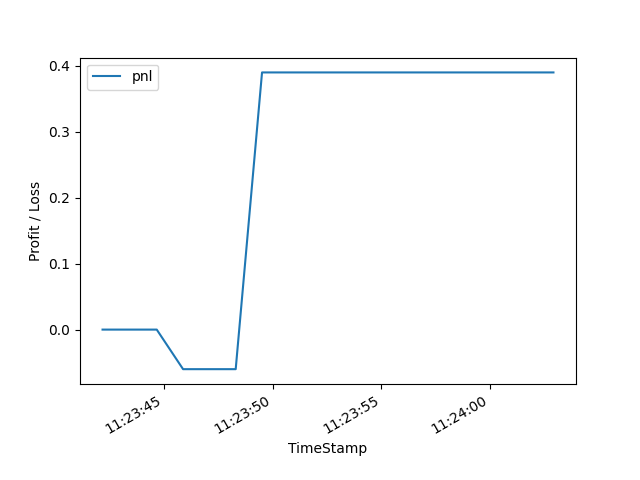
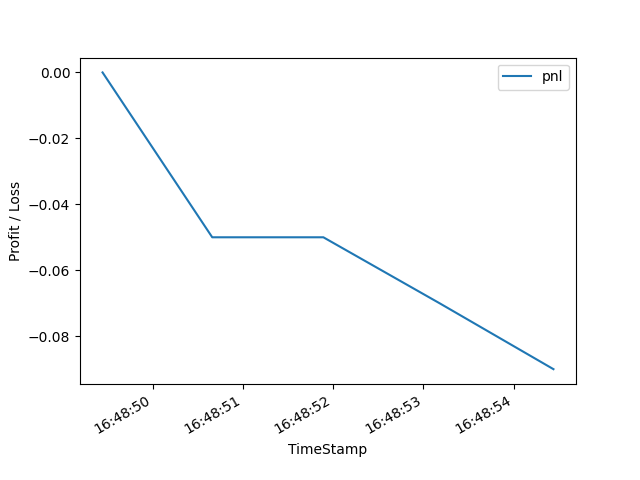
Misc

diff --git a/prototrade/src/position_management/position_manager.py b/prototrade/src/position_management/position_manager.py
@@ -5,7 +5,7 @@ import logging
 import heapq
 import traceback
 from models.dual_heap import DualHeap
-from exceptions.exceptions import InvalidOrderTypeException, InvalidOrderSideException, UnknownOrderIdException, MissingParameterException, ExtraneousParameterException, UnavailableSymbolException
+from exceptions.exceptions import InvalidOrderTypeException, InvalidOrderSideException, UnknownOrderIdException, MissingParameterException, ExtraneousParameterException, UnavailableSymbolException, InvalidPriceException, InvalidVolumeException
 from models.order import Order
 import math
 from threading import Thread
@@ -22,12 +22,13 @@ from models.error_event import ErrorEvent
 
 SYMBOL_REQUEST_TIMEOUT = 5
 class PositionManager:
-    def __init__(self, order_books_dict, order_books_dict_semaphore, stop_event, error_queue, exchange_num):
+    def __init__(self, order_books_dict, order_books_dict_semaphore, stop_event, error_queue, exchange_num, subscribed_symbols):
         self._order_books_dict = order_books_dict
         self._order_books_dict_semaphore = order_books_dict_semaphore
         self._stop_event = stop_event
         self._error_queue = error_queue
         self._exchange_num = exchange_num
+        self._subscribed_symbols = subscribed_symbols
 
         self._open_orders_polling_thread = None
         self._positions_map = defaultdict(int)
@@ -40,12 +41,14 @@ class PositionManager:
         self._open_orders_polling_thread = None
 
         self._rolling_pnl_list = []
+        self._rolling_position_dict = dict()
 
         self._order_objects_lock = Lock() # have to acquire lock whenever accessing order_dict or open_orders
         self._rolling_pnl_list_lock = Lock() 
         self._positions_map_lock = Lock()
         self._transaction_pnl_lock = Lock()
         self._transaction_history_lock = Lock()
+        self._rolling_position_dict_lock = Lock()
 
     def create_order(self, symbol, order_side, order_type, volume, price = None):
         # FOC: check if order can be executed immediately (don't add to open orders)
@@ -70,7 +73,12 @@ class PositionManager:
             self.release_locks()
             raise TypeError(f"The volume parameter given, {volume}, must be an integer.")
 
-        print("checking bid ask")
+        if volume <= 0:
+            raise InvalidVolumeException("Order volume must be greater than zero")
+
+        if price and price < 0:
+            raise InvalidPriceException("Order price must be zero or greater")
+
         if order_side == "bid":
             heap_to_use = dual_heap.bid_heap
         elif order_side == "ask":
@@ -87,6 +95,9 @@ class PositionManager:
             self.release_locks()
             raise ExtraneousParameterException("Price cannot be used as parameter when a market order type is specified in create_order")
             
+        if symbol not in self._subscribed_symbols: # needs live data for symbol as otherwise cannot simulate execution 
+            raise UnavailableSymbolException(f"Subscribe to symbol '{symbol}' before creating an order for '{symbol}'")
+
         if order_type == "fok":
             self.release_locks() # fok doesn't use heap so can release lock
             return self._handle_fok(symbol, order_side, volume, price)
@@ -100,7 +111,6 @@ class PositionManager:
 
         # Need to add the order to dual heap, then add a entry in the _order_dict to that new object
         # As the key for the entry, create a new order_id
-
         # return newly created order_id
 
     def _insert_order(self, heap_to_use, symbol, order_side, order_type, volume, price):
@@ -133,7 +143,6 @@ class PositionManager:
         return None # None if FOK order was killed
 
     def _handle_limit_order(self, heap_to_use, symbol, order_side, order_type, volume, price):
-        print("limit order")
         return self._insert_order(heap_to_use, symbol, order_side, order_type, volume, price)
 
     def _handle_market_order(self, heap_to_use, symbol, order_side, order_type, volume):
@@ -144,6 +153,11 @@ class PositionManager:
 
 
     def _wait_for_symbol_to_arrive(self, symbol):
+        if symbol not in self._subscribed_symbols:
+            self._order_books_dict_semaphore.release()
+            self.release_locks()
+            raise UnavailableSymbolException(f"In strategy {self._exchange_num + 1} requesting live data on symbol '{symbol}', but strategy is not subscribed to '{symbol}'")
+        
         start_time = time.time()
         while symbol not in self._order_books_dict:
             self._order_books_dict_semaphore.release()
@@ -201,6 +215,7 @@ class PositionManager:
 
     def get_orders(self, symbol = None):
         # dictionary of order_id -> Order Object
+
         self._order_objects_lock.acquire()
         if symbol:
             # Only return orders for requested symbol
@@ -225,22 +240,32 @@ class PositionManager:
     def get_strategy_best_bid(self, symbol):
         self._order_objects_lock.acquire()
         if symbol not in self._open_orders:
-            self.release_locks()
-            raise UnavailableSymbolException(f"Strategy has not placed any bid orders for symbol {symbol}")
+            self._order_objects_lock.release()
+            return None #If no orders ever placed, we can just return None
 
-        best_bid = deepcopy(self._open_orders[symbol].bid_heap[0])
+        bid_heap = self._open_orders[symbol].bid_heap
+        if bid_heap:
+            best_bid = deepcopy(bid_heap[0])
+        else:
+            best_bid = None
+
         self._order_objects_lock.release()
         return best_bid
 
     def get_strategy_best_ask(self, symbol):
         self._order_objects_lock.acquire()
         if symbol not in self._open_orders:
-            self.release_locks()
-            raise UnavailableSymbolException(f"Strategy has not placed any ask orders for symbol {symbol}")
+            self._order_objects_lock.release()
+            return None #If no orders ever placed, we can just return None
 
-        best_bid = deepcopy(self._open_orders[symbol].ask_heap[0])
+        ask_heap = self._open_orders[symbol].ask_heap
+        if ask_heap:
+            best_ask = deepcopy(ask_heap[0])
+        else:
+            best_ask = None
+
         self._order_objects_lock.release()
-        return best_bid
+        return best_ask
 
     def _create_thread_to_poll_open_orders(self):
         self._open_orders_polling_thread = Thread(
@@ -290,9 +315,15 @@ class PositionManager:
             self._order_objects_lock.release()
 
             if time.time() - last_pnl_time > 1:
+                timestamp = datetime.datetime.now()
+                pnl = self.get_pnl()
+                positions = deepcopy(self._positions_map)
                 self._rolling_pnl_list_lock.acquire()
-                self._rolling_pnl_list.append([datetime.datetime.now(), self.get_pnl()])
+                self._rolling_pnl_list.append([timestamp, pnl])
                 self._rolling_pnl_list_lock.release()
+                self._rolling_position_dict_lock.acquire()
+                self._rolling_position_dict.append([timestamp, *positions])
+                self._rolling_position_dict_lock.release()
                 last_pnl_time = time.time()
 
             time.sleep(0.3)
@@ -305,6 +336,12 @@ class PositionManager:
         self._rolling_pnl_list_lock.acquire()
         pnl_df = pd.DataFrame(self._rolling_pnl_list, columns = ['timestamp', 'pnl'])
         self._rolling_pnl_list_lock.release()
+        return pnl_df
+
+    def get_positions_data(self):
+        self._rolling_position_dict_lock.acquire()
+        pnl_df = pd.DataFrame(self._rolling_position_dict, columns = ['timestamp', 'dict'])
+        self._rolling_position_dict_lock.release()
         return pnl_df
 
     def _register_new_transaction(self, symbol, order_side, order_type, volume, price, time):
@@ -395,10 +432,11 @@ class PositionManager:
         for symbol, amount in positions:
             # if symbol not in order_books_snapshot:
             #     raise UnavailableSymbolException(f"Ensure symbol {symbol} is subscribed to")
+            print(f"Adding {symbol} {order_books_snapshot[symbol].ask.price} {amount}")
             if amount > 0:
-                pnl += order_books_snapshot[symbol].ask.price * amount # the money obtained if all shares were sold at best_ask price
+                pnl += order_books_snapshot[symbol].bid.price * amount # the money obtained if all shares were sold at best bid price
             elif amount < 0:
-                pnl += order_books_snapshot[symbol].bid.price * amount # the money spent to obtain all shares back at best_bid price
+                pnl += order_books_snapshot[symbol].ask.price * amount # the money spent to obtain all shares back at best ask price
 
         return pnl
 
@@ -409,7 +447,6 @@ class PositionManager:
         self._order_objects_lock.release()
     
 # Thread that pseudo-executes orders must give a transaction price of the corresponding bid/ask price, not the limit price 
-
 # MATCHING ORDERS AGAINST OWN ORDERS?
 
 def handle_error(error_queue, exchange_num):

diff --git a/prototrade/src/prototrade/prototrade.py b/prototrade/src/prototrade/prototrade.py
@@ -9,6 +9,7 @@ from ticker_streamer.subscription_manager import SubscriptionManager
 from prototrade.error_processor import ErrorProcessor
 from models.error_event import ErrorEvent
 import alpaca_trade_api as tradeapi
+from exceptions.exceptions import ExchangeNotOpenException
 
 import sys
 import traceback
@@ -64,11 +65,11 @@ class ProtoTrade:
         for strategy_num, strategy in enumerate(self._strategy_list):
             exchange = Exchange(
                 self._order_books_dict, self._order_books_dict_semaphore, self._subscription_queue, self._error_queue, strategy_num, self._stop_event, self._historical_api)
-
+            logging.info("TEST")
             res = self._strategy_process_pool.apply_async(
                 run_strategy, args=(self._error_queue, strategy.strategy_func, exchange, *strategy.arguments))
-
-            # res.get()
+            logging.info(f"Started strategy {strategy_num}")
+            
         logging.info("Started strategies")
         self._error_processor.join_thread()
         logging.info("Error processing thread joined")
@@ -140,6 +141,9 @@ class ProtoTrade:
             self._exchange_name
         )
 
+        if not self._streamer.is_market_open():
+            raise ExchangeNotOpenException(f"The live exchange is currently closed.")
+
         self.create_shared_rest_api_class()
 
         self._subscription_queue = self.manager.Queue()
@@ -170,6 +174,7 @@ class ProtoTrade:
 # This has to be outside the class, as otherwise all class members would have to be pickled when sending arguments to the new process
 def run_strategy(error_queue, func, exchange, *args):
     try:  # Wrap the user strategy in a try/catch block so we can catch any errors and forward them to the main process
+        logging.info(f"Running {exchange.exchange_num}")
         func(exchange, *args)
     except Exception as e:
         try:
@@ -179,9 +184,10 @@ def run_strategy(error_queue, func, exchange, *args):
         # At this point the process has finished and can be joined with the main process
 
 def handle_error(error_queue, exchange_num):
+    logging.error(f"Process {exchange_num} EXCEPTION")
     exception_info = traceback.format_exc() # Get a string with full original stack trace
     error_queue.put(ErrorEvent(exchange_num, exception_info))
-    logging.error(f"Process {exchange_num} EXCEPTION")
+    
 
 class CustomManager(BaseManager):
     pass

diff --git a/prototrade/src/ticker_streamer/subscription_manager.py b/prototrade/src/ticker_streamer/subscription_manager.py
@@ -2,6 +2,7 @@ from collections import defaultdict
 from models.subscription_event import SubscribeType
 from threading import Thread
 import logging
+from exceptions.exceptions import UnavailableSymbolException
 
 class SubscriptionManager:
 
@@ -21,15 +22,18 @@ class SubscriptionManager:
 
             self.symbol_to_strategies_dict[symbol].add(strategy_num)
             logging.info(
-                f"Strategy {strategy_num} subscribes to {symbol}")
+                f"Strategy {strategy_num + 1} subscribes to {symbol}")
         else:
             self.symbol_to_strategies_dict[symbol].add(strategy_num)
             logging.info(
-                f"Strategy {strategy_num} subscribes to {symbol}. Entry added")
+                f"Strategy {strategy_num + 1} subscribes to {symbol}. Entry added")
 
     def unsubscribe(self, strategy_num, symbol):
+        if symbol not in self.symbol_to_strategies_dict or strategy_num not in self.symbol_to_strategies_dict[symbol]:
+            raise UnavailableSymbolException(f"Strategy {strategy_num + 1} attempted to unsubscribe from '{symbol}', which is not subscribed to")
+
         self.symbol_to_strategies_dict[symbol].remove(strategy_num)
-        logging.info(f"Strategy {strategy_num} unsubs from {symbol}.")
+        logging.info(f"Strategy {strategy_num + 1} unsubs from {symbol}.")
         # if no strategies interested... unsubscribe permanantly
         if not self.symbol_to_strategies_dict[symbol]: 
             self._streamer.unsubscribe(symbol)

diff --git a/prototrade/setup.py b/prototrade/setup.py
@@ -1,8 +1,23 @@
 from setuptools import setup, find_packages
+
+VERSION = '0.0.5'
+DESCRIPTION = 'Parallelised Python framework for rapid prototyping of autotrading strategies'
 setup(
     name='prototrade',
+    version = VERSION,
+    author = 'Scott Parker',
+    email = 'scott.parker.uk@btinternet.com',
     packages=find_packages(
         where='src',
     ),
-    package_dir={"": "src"}
+    package_dir={"": "src"},
+    license="MIT",
+    python_requires='>3.7',
+    install_requires=[
+    'matplotlib',
+    'numpy',
+    'alpaca_trade_api',
+    'pandas',
+    ]
+    
 )

diff --git a/prototrade/src/exchange/exchange.py b/prototrade/src/exchange/exchange.py
@@ -77,7 +77,7 @@ class Exchange:
     def position_manager_decorator(func):
         def wrapper(self, *args):
             if not self._position_manager:
-                self._position_manager = PositionManager(self._order_books_dict, self._order_books_dict_semaphore, self._stop_event, self._error_queue, self.exchange_num)
+                self._position_manager = PositionManager(self._order_books_dict, self._order_books_dict_semaphore, self._stop_event, self._error_queue, self.exchange_num, self._subscribed_symbols)
             return func(self, *args)
         return wrapper
 

diff --git a/testing/test.py b/testing/test.py
@@ -1,9 +1,10 @@
-from prototrade.prototrade import ProtoTrade
+
 import time
 import random
 import matplotlib
 from matplotlib import pyplot as plt
-
+import sys
+from prototrade.prototrade import ProtoTrade
 
 
 def main():
@@ -18,6 +19,7 @@ def main():
     pt.run_strategies()
 
 def rhys_strat(exchange):
+    print("x")
     time.sleep(2)
     exchange.subscribe("PLTR")
     fair_price = exchange.historical.get_bars("PLTR", "1minute", "2022-01-18", "2022-01-18").df.iloc[0]["open"]

diff --git a/prototrade/src/ticker_streamer/alpaca_streamer.py b/prototrade/src/ticker_streamer/alpaca_streamer.py
@@ -3,7 +3,6 @@ import threading
 from models.books import Quote
 import time
 import logging
-import pickle
 
 BASE_URL = "https://api.alpaca.markets"
 
@@ -52,3 +51,7 @@ class AlpacaDataStreamer:
 
     def get_rest_api(self):
         return tradeapi.REST(self._alpaca_api_key, self._alpaca_secret_key)
+
+    def is_market_open(self):
+        clock = self.get_rest_api().get_clock()
+        return clock.is_open

diff --git a/prototrade/src/exceptions/exceptions.py b/prototrade/src/exceptions/exceptions.py
@@ -20,3 +20,12 @@ class MissingParameterException(Exception):
 
 class ExtraneousParameterException(Exception):
     pass
+
+class InvalidPriceException(Exception):
+    pass
+
+class InvalidVolumeException(Exception):
+    pass
+
+class ExchangeNotOpenException(Exception):
+    pass

diff --git a/prototrade/README.md b/prototrade/README.md
@@ -1,0 +1,1 @@
+Prototrade README
